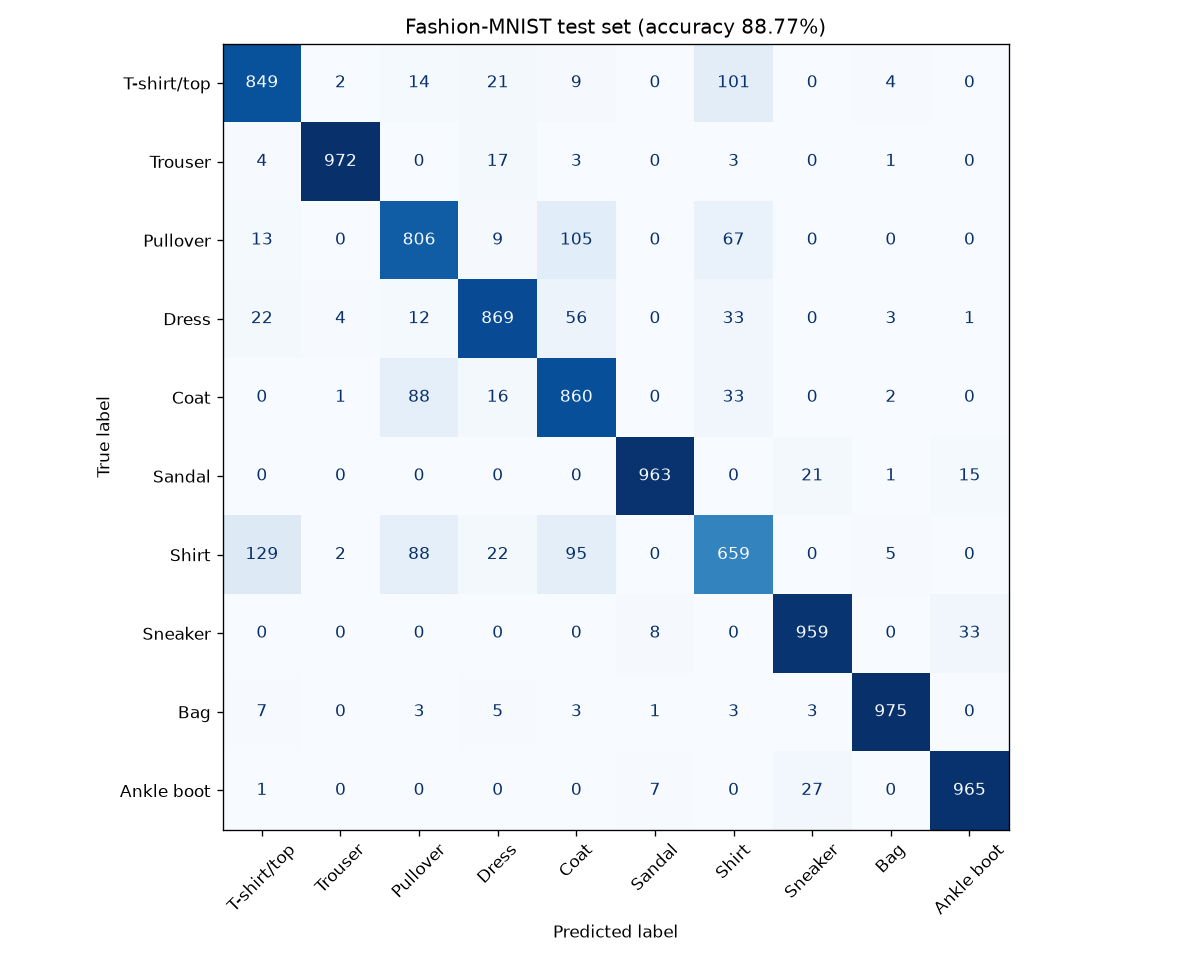
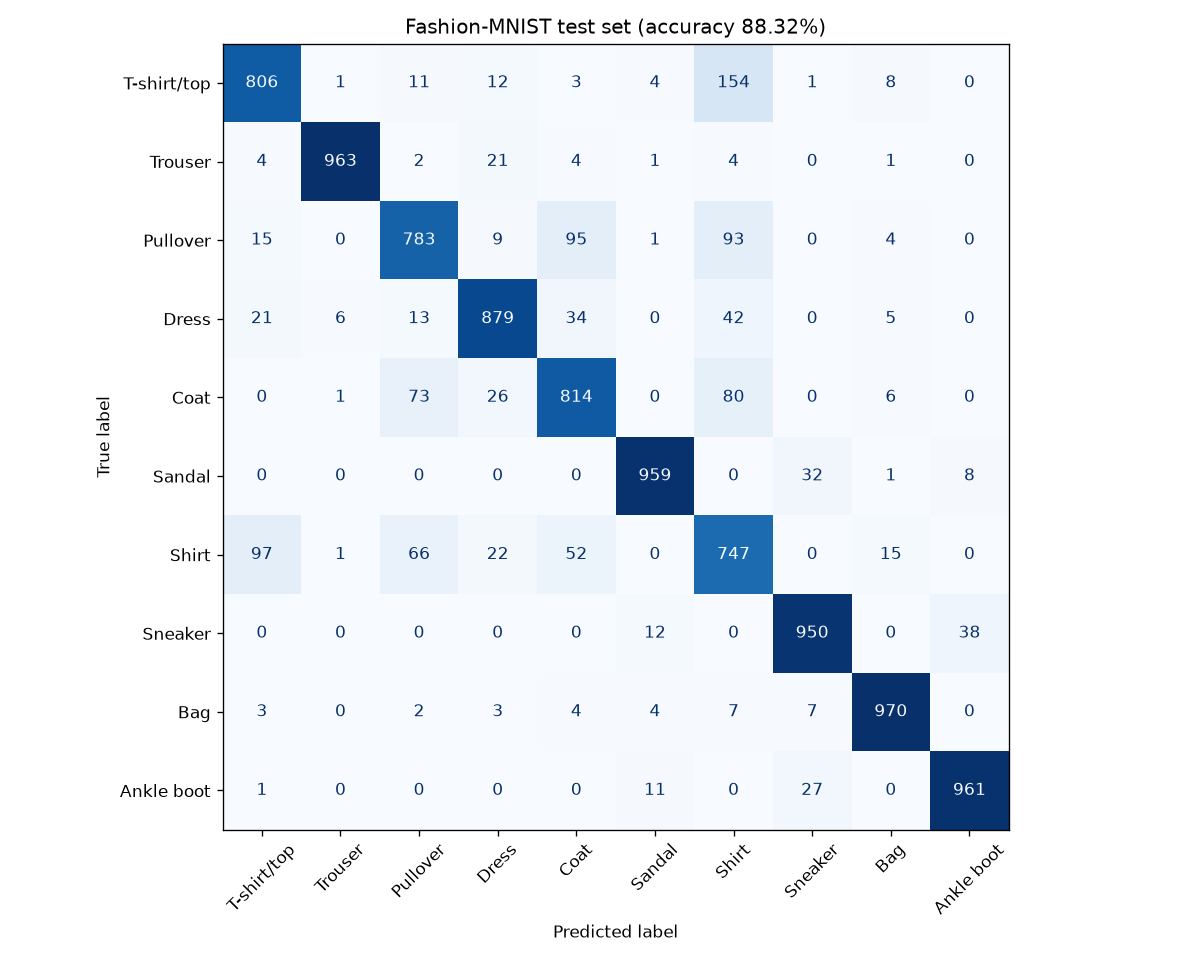
feat: scale pixels to [-1, 1] in preprocess

diff --git a/src/preprocess.py b/src/preprocess.py
@@ -20,12 +20,13 @@ def main():
     train_raw = np.load(RAW_DIR / "train.npz")
     test_raw = np.load(RAW_DIR / "test.npz")
 
-    train_images = train_raw["images"].astype("float32") / 255.0
+    # Scale pixels from [0, 255] to [-1, 1] so inputs are centred on zero
+    train_images = train_raw["images"].astype("float32") / 127.5 - 1.0
     train_labels = train_raw["labels"]
-    test_images = test_raw["images"].astype("float32") / 255.0
+    test_images = test_raw["images"].astype("float32") / 127.5 - 1.0
     test_labels = test_raw["labels"]
 
-    assert 0.0 <= train_images.min() and train_images.max() <= 1.0, "pixels not in [0, 1]"
+    assert -1.0 <= train_images.min() and train_images.max() <= 1.0, "pixels not in [-1, 1]"
 
     train_images, val_images, train_labels, val_labels = train_test_split(
         train_images,
